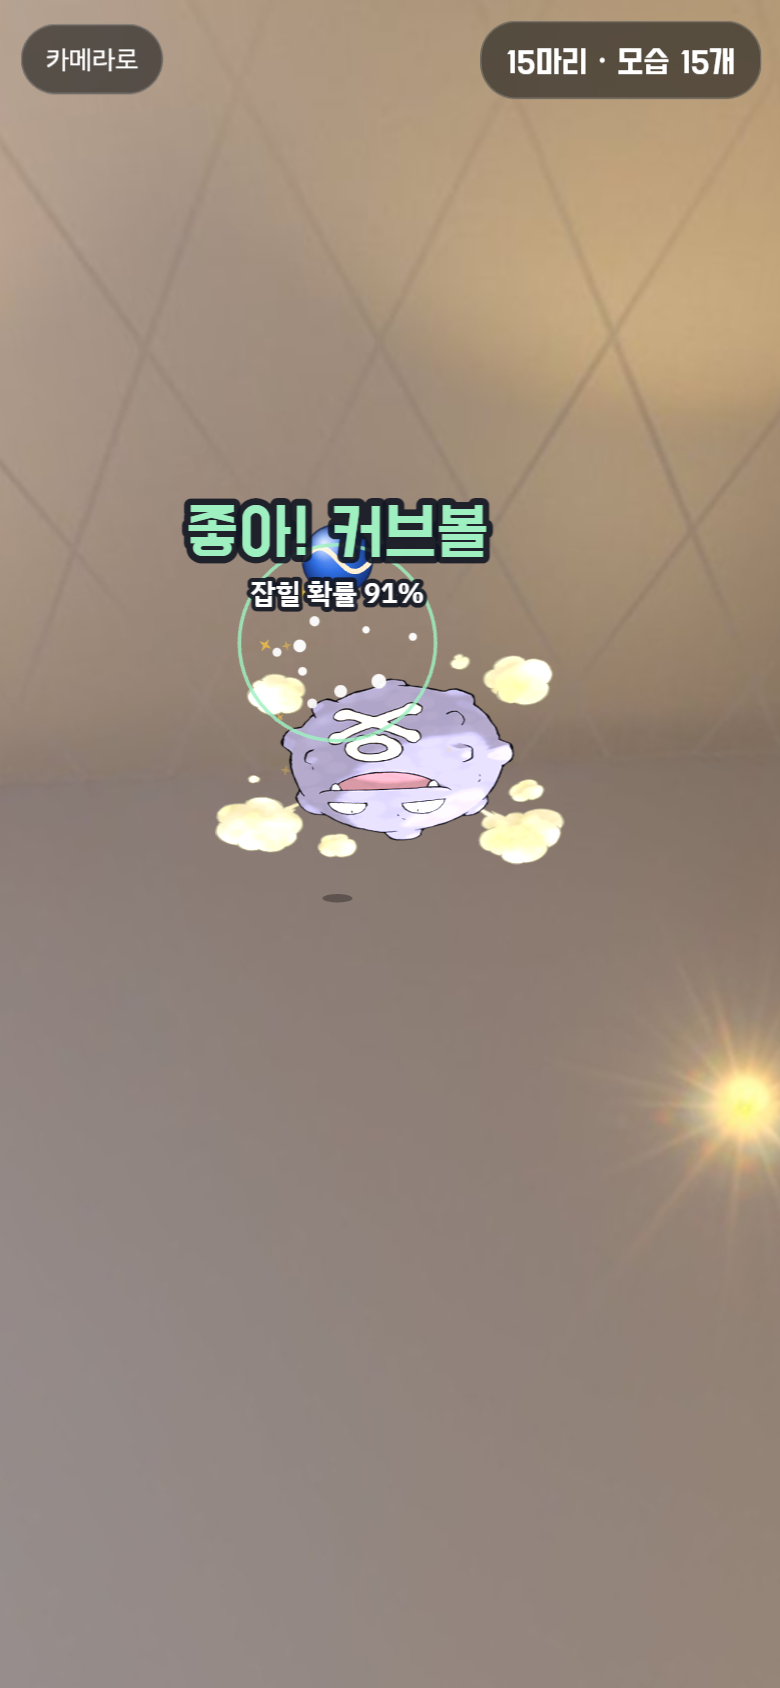
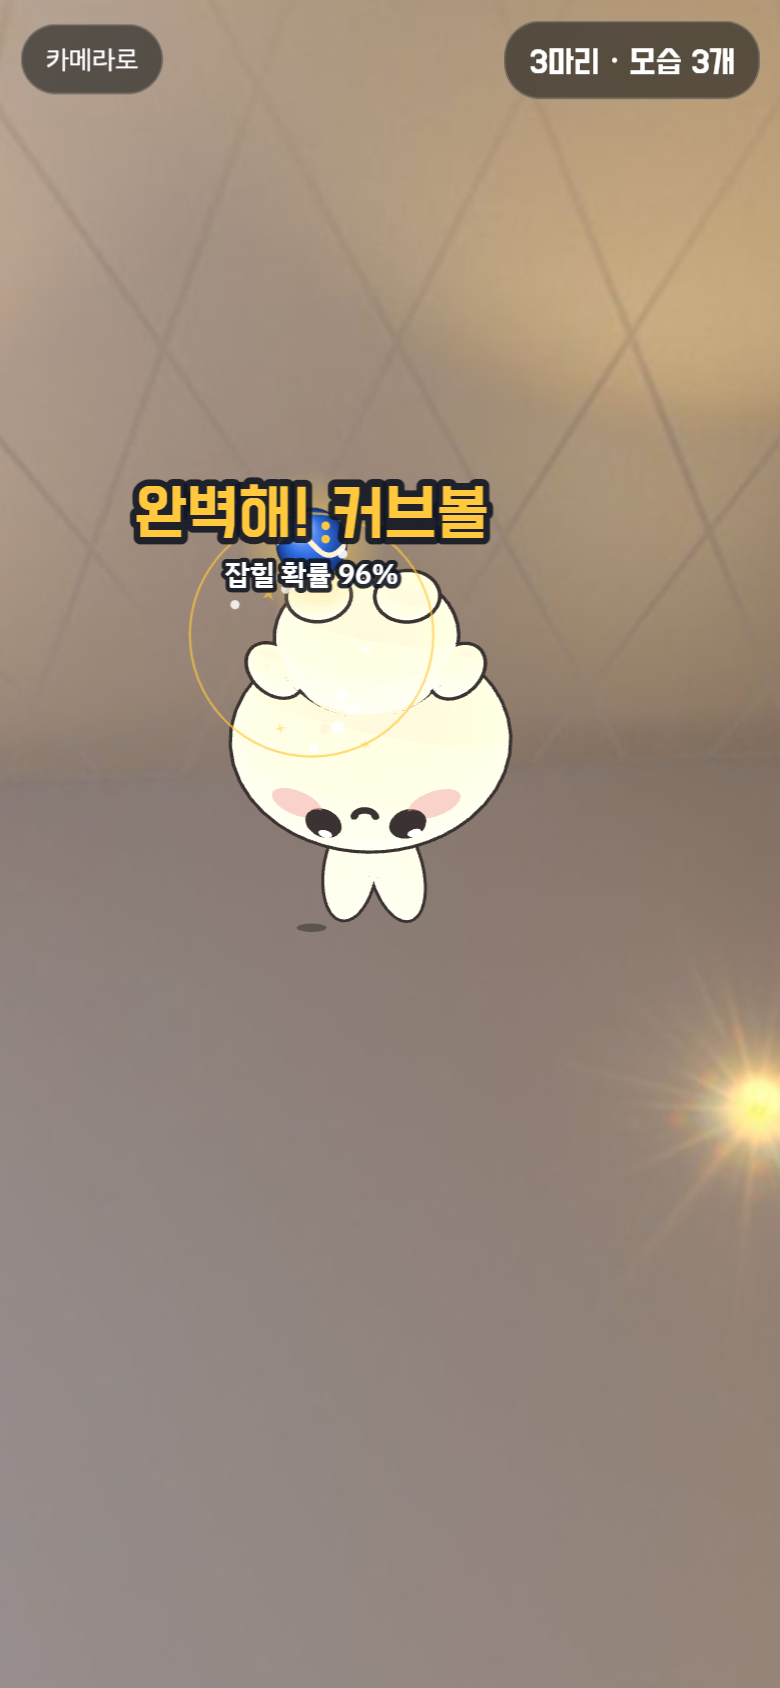
feat(lab): catch - Chiikawa trio replaces the Pokemon sprites in the game
Operator asked for Chiikawa creatures; dex/card/export use a rendered snapshot.
Also ignore all-zero deviceorientation events (desktop/headless), which flipped the view.

Claude-Session: https://claude.ai/code/session_01UeACDai2KLS3s8bXL8AvxG

Changed region(s): [[0.1538, 0.2773, 0.7385, 0.5545], [0.6154, 0.0, 0.8923, 0.0616], [0.8923, 0.6161, 1.0, 0.7085]]

diff --git a/works/2026-11-09-catch/site/js/creature.js b/works/2026-11-09-catch/site/js/creature.js
@@ -62,3 +62,60 @@ export function spriteCreature(img) {
     dispose() { mesh.material.map.dispose(); mesh.material.dispose(); mesh.geometry.dispose(); },
   };
 }
+
+// ---------- 3D creatures (creatures.js) behind the same seam ----------
+import { makeCreature, SPECS } from "./creatures.js";
+
+export const VIRTUAL = SPECS.filter(s => s.group === "chiikawa");
+export const specOf = id => SPECS.find(s => s.id === id);
+
+/** A creatures.js model as the ar.js creature (its own contact shadow is hidden: ar.js draws one). */
+export function modelCreature(spec) {
+  const c = makeCreature(spec), root = new THREE.Group(), lift = new THREE.Group();
+  lift.add(c.object3d); root.add(lift);
+  c.object3d.children.forEach(o => { if (o.isMesh && o.renderOrder === -1) o.visible = false; });
+  const lights = [], glow = [];
+  c.object3d.traverse(o => {
+    if (o.isLight) lights.push({ o, base: o.color.clone() });
+    if (o.material && o.material.emissive && !glow.includes(o.material)) glow.push(o.material);
+  });
+  const box = new THREE.Box3().setFromObject(c.object3d), sz = box.getSize(new THREE.Vector3());
+  const st = { act: null, next: null };
+  let last = null;
+  return {
+    root,
+    hit: { w: sz.x * 0.9, h: sz.y * 0.9, cy: sz.y / 2 },
+    shadowR: Math.max(sz.x, sz.z) * 0.45,
+    update(now, dt, pose, tint) {
+      if (last === null) last = now;
+      c.update(Math.min(0.05, (now - last) / 1000)); last = now;
+      const m = idle(now, pose.hold, st), k = Math.max(0.001, pose.scale ?? 1), sq = (pose.squash || 0) + m.sq;
+      root.scale.set(k * (1 - 0.5 * sq), k * (1 + sq), k * (1 - 0.5 * sq));
+      lift.position.y = m.lift; lift.rotation.z = m.rot;
+      for (const l of lights) l.o.color.copy(l.base).multiply(tint);
+      for (const mt of glow) mt.emissive.setScalar(pose.flash || 0);
+      return m.lift;
+    },
+    dispose() { root.traverse(o => { o.geometry?.dispose?.(); }); },
+  };
+}
+
+/** A front picture of a model (PNG data URL, 256 px), for the dex, the card and the export. One shared renderer. */
+let snapR = null;
+const snaps = new Map();
+export function snapshot(id) {
+  if (snaps.has(id)) return snaps.get(id);
+  const spec = specOf(id);
+  if (!spec) return "";
+  snapR ||= new THREE.WebGLRenderer({ antialias: true, alpha: true, preserveDrawingBuffer: true });
+  snapR.setPixelRatio(1); snapR.setSize(256, 256, false); snapR.outputColorSpace = THREE.SRGBColorSpace;
+  const c = makeCreature(spec), scene = new THREE.Scene();
+  scene.add(c.object3d); c.update(0.016);
+  const box = new THREE.Box3().setFromObject(c.object3d), sz = box.getSize(new THREE.Vector3()), mid = box.getCenter(new THREE.Vector3());
+  const cam = new THREE.PerspectiveCamera(30, 1, 0.01, 10), d = Math.max(sz.x, sz.y) * 0.62 / Math.tan(Math.PI / 12);
+  cam.position.set(mid.x, mid.y + d * 0.12, mid.z + d); cam.lookAt(mid);
+  snapR.setClearColor(0x000000, 0); snapR.render(scene, cam);
+  const url = snapR.domElement.toDataURL("image/png");
+  snaps.set(id, url);
+  return url;
+}

diff --git a/works/2026-11-09-catch/site/js/ui.js b/works/2026-11-09-catch/site/js/ui.js
@@ -4,7 +4,7 @@ import * as ar from "./ar.js";
 import * as dex from "./dex.js";
 import { grade, odds, roll, ringAt, rng, CRIT_RING } from "./catch.js";
 import { release, flight, sweep, turnOf, curveOf, coverMap, FLIGHT_MS, END_SCALE } from "./geom.js";
-import { spriteCreature } from "./creature.js";
+import { modelCreature, VIRTUAL } from "./creature.js";
 import { LABELS, LABEL_KO, suggest, count } from "./moves.js";
 import * as seg from "./seg.js";
 import * as store from "./store.js";
@@ -44,27 +44,15 @@ const rest = () => ({ x: W / 2, y: H * 0.78 });
 const ballR = () => Math.max(24, Math.min(34, W * 0.075));
 
 // ---------- creatures ----------
-const names = new Map();
-async function koName(id) {
-  if (names.has(id)) return names.get(id);
-  let n = `포켓몬 ${id}`;
-  try {
-    const r = await fetch(`https://pokeapi.co/api/v2/pokemon-species/${id}`);
-    const ko = (await r.json()).names.find(x => x.language.name === "ko");
-    if (ko) n = ko.name;
-  } catch { /* the number will do */ }
-  names.set(id, n);
-  return n;
-}
 let spawning = false;
 async function spawn() {
   if (spawning) return;
   spawning = true;   // a creature that leaves stays in view (and the ball in hand) until the next one has loaded
-  const id = 1 + Math.floor(rnd() * 151);
+  const spec = VIRTUAL[Math.floor(rnd() * VIRTUAL.length)], id = spec.id;
   try {
-    const [img, name] = await Promise.all([ar.loadImg(ART(id)), koName(id)]);
-    G.mon = { id, name, img, t0: clock() };
-    ar.setCreature(spriteCreature(img)); ar.place();
+    const img = await ar.loadImg(ART(id));
+    G.mon = { id, name: spec.name, img, t0: clock() };
+    ar.setCreature(modelCreature(spec)); ar.place();
     G.ringT0 = clock();
     if (G.phase === "wait") { G.phase = "hand"; G.handT0 = clock(); }
   } catch {

diff --git a/works/2026-11-09-catch/site/js/dex.js b/works/2026-11-09-catch/site/js/dex.js
@@ -1,12 +1,14 @@
 // The dex (grid), one creature's detail (5 pose slots, empty = silhouette, unlocked moves), the catch card as a
 // 1080x1350 PNG (share or download) and the .dotpet export the Android app reads.
 import { loadImg } from "./ar.js";
+import { snapshot } from "./creature.js";
 import { cardText } from "./lines.js";
 import { LABELS, LABEL_KO, moves, count } from "./moves.js";
 import { serialize, fileName } from "./petfile.js";
 import * as store from "./store.js";
 
-export const ART = id => `https://cdn.jsdelivr.net/gh/PokeAPI/sprites@master/sprites/pokemon/other/official-artwork/${id}.png`;
+// a 3D creature id (string) -> its rendered picture; an old saved pokemon number keeps its artwork URL
+export const ART = id => typeof id === "string" ? snapshot(id) : `https://cdn.jsdelivr.net/gh/PokeAPI/sprites@master/sprites/pokemon/other/official-artwork/${id}.png`;
 const LINK = "dot-connects.github.io/dot-lab/works/2026-11-09-catch/site/";
 const MOVE_KO = { bounce: "통통", flinch: "움찔", walk: "걷기", run: "뛰기", sleep: "잠자기", hide: "숨기" };
 const MOVE_NEEDS = { walk: "옆모습", run: "옆모습 + 걷는 중", sleep: "누운 모습", hide: "뒷모습" };

diff --git a/works/2026-11-09-catch/site/js/ar.js b/works/2026-11-09-catch/site/js/ar.js
@@ -102,7 +102,8 @@ function fit() {
 // ---------- gyro (three.js r133 DeviceOrientationControls math, from dalgona) ----------
 let orient = null;
 const gq = new THREE.Quaternion(), euler = new THREE.Euler(), qBack = new THREE.Quaternion(-Math.sqrt(0.5), 0, 0, Math.sqrt(0.5)), qs = new THREE.Quaternion(), Z = new THREE.Vector3(0, 0, 1);
-addEventListener("deviceorientation", e => { if (e.beta != null && e.gamma != null) orient = e; });
+// desktop / headless Chrome without a sensor fires all-zero events: that is "no gyro", not a phone lying flat
+addEventListener("deviceorientation", e => { if (e.beta != null && e.gamma != null && (e.alpha || e.beta || e.gamma)) orient = e; });
 function gyroTarget() {
   if (!orient) return null;
   const D = Math.PI / 180, so = (screen.orientation && screen.orientation.angle) || window.orientation || 0;
